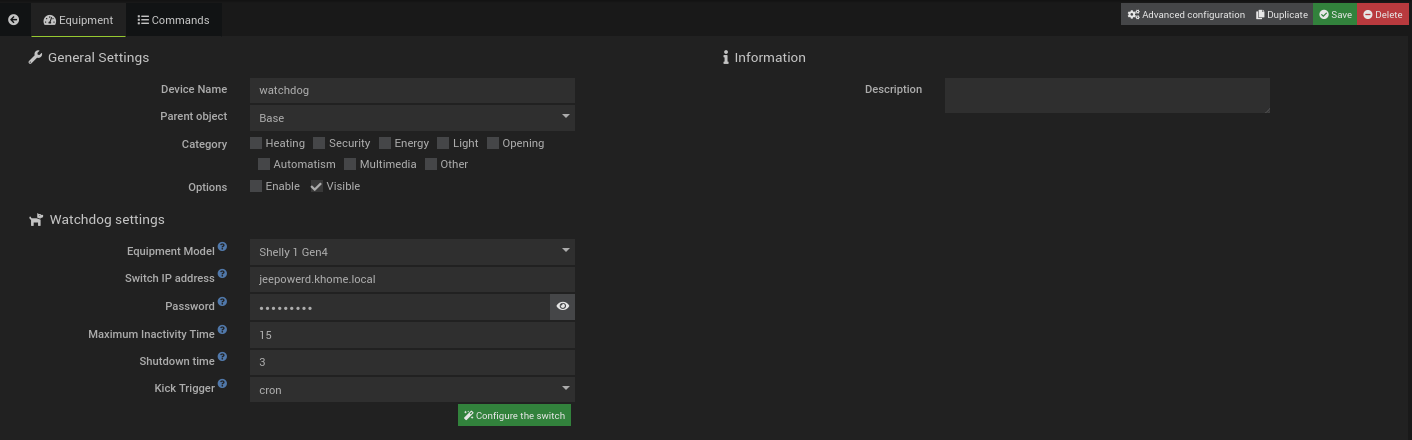
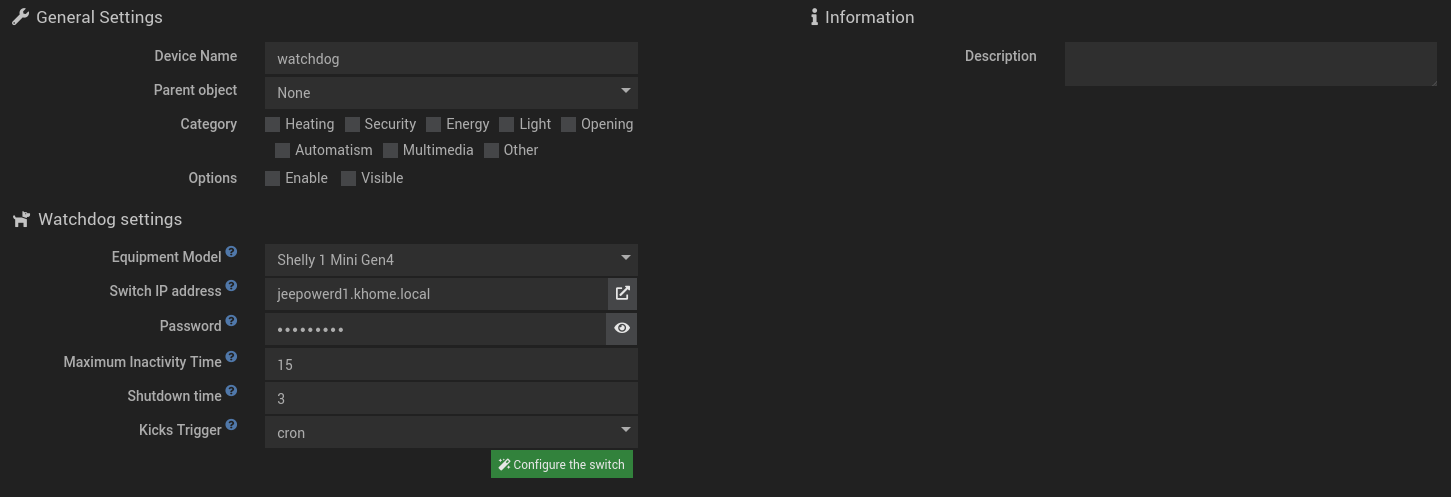
watchdog

diff --git a/_layouts/default.html b/_layouts/default.html
@@ -7,6 +7,7 @@
 
 		<link href="https://fonts.googleapis.com/icon?family=Material+Icons" rel="stylesheet">
 		<link rel="stylesheet" href="{{ '/assets/css/main.css?v=' | append: site.github.build_revision | relative_url }}">
+		<link rel="stylesheet" href="https://cdnjs.cloudflare.com/ajax/libs/font-awesome/5.15.4/css/all.min.css">
 
 		<meta name="viewport" content="width=device-width, initial-scale=1, user-scalable=no">
 

diff --git a/plugins/jeewatchdog/fr_FR/index.md b/plugins/jeewatchdog/fr_FR/index.md
@@ -158,18 +158,26 @@ Outre les iparamètres standard de configuation Jeedom, quelques paramètreis sp
 
 + ***Modèle d'équipement***\
 Le modèle de l'appareil Shelly.
+
 + ***Adresse IP du switch***\
-Adresse IP du Shelly (un nom DNS est aussi accepté).
+Adresse IP du Shelly (un nom DNS est aussi accepté).\
+Le bouton <i class="fas fa-external-link-alt"></i> à droite de la saisie permet d'ouvrir la page
+d'administration du Shelly
+
 + ***Mot de passe***\
 Password du shelly
+
 + ***Temps max d'inactivé***\
 L'alimentation du jeedom sera coupée quelques secondes si Jeedom n'y pas envoyé de *kick* durant ce
 délai. Cette durée est exprimée en minutes.
+
 + ***Temp de coupure***\
 Durée, exprimée en secondes, de la coupure de l'alimentation.
+
 + ***Déclencheur du Kick***\
 Indique si le Kick doit être envoyé au Shelly par un **cron** et un **scénario**. Voir explications
 plus bas
+
 + ***Bouton configurer le switch***\
 Bouton pour envoyer la configuration au Shelly. L'équipement doit avoir été sauvegardé avant
 de cliquer sur ce bouton.

diff --git a/plugins/jeewatchdog/fr_FR/changelog.md b/plugins/jeewatchdog/fr_FR/changelog.md
@@ -7,5 +7,9 @@ lang: fr_FR
 
 # Release notes
 
+### 17/09/2026 beta
++ Ajout d'un bouton sur la page de configuration de l'équipement pour ouvrir un nouvel onglet sur la page dd'administration du Shelly
++ **Expérimental:** Ajout du support du *Shelly Power Strip*
+
 ### 15/09/2026 beta
 + Première version
